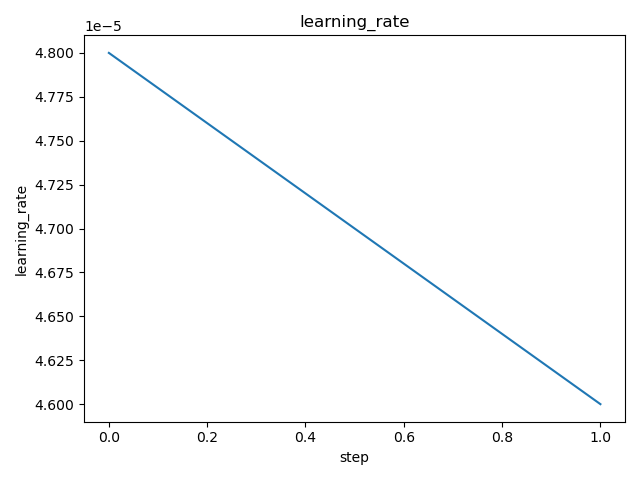
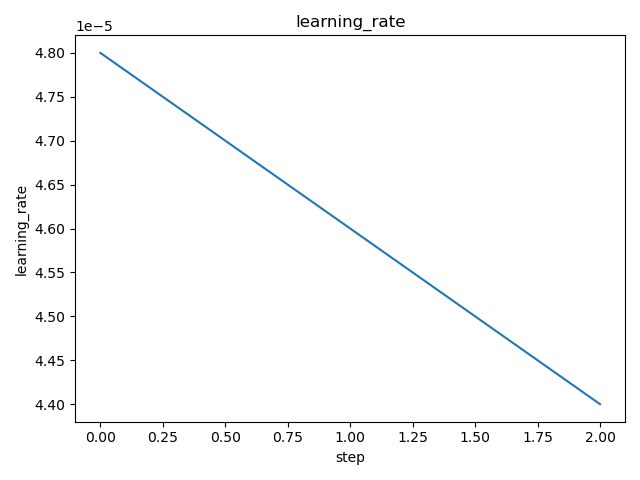
dvc: commit experiment 804480ef47b042945cc586f86a1c19b9eb7fc41c631e3827fbc546aaaff88ea5

diff --git a/data/ogt_protein_classifier/dvclive/report.md b/data/ogt_protein_classifier/dvclive/report.md
@@ -4,7 +4,7 @@ metrics.json
 
 |   loss |   learning_rate |   epoch |   eval_loss |   eval_f1 |   eval_accuracy |   eval_matthew |   eval_runtime |   eval_samples_per_second |   eval_steps_per_second |   step |
 |--------|-----------------|---------|-------------|-----------|-----------------|----------------|----------------|---------------------------|-------------------------|--------|
-| 0.5348 |         4.6e-05 |       4 |    0.665852 |  0.714286 |             0.6 |       0.333333 |         3.2477 |                    24.633 |                   0.616 |      1 |
+| 0.3479 |         4.4e-05 |       6 |    0.665879 |  0.727273 |           0.625 |       0.377964 |         3.3753 |                    23.702 |                   0.593 |      2 |
 
 ![static/eval_steps_per_second](static/eval_steps_per_second.png)
 
